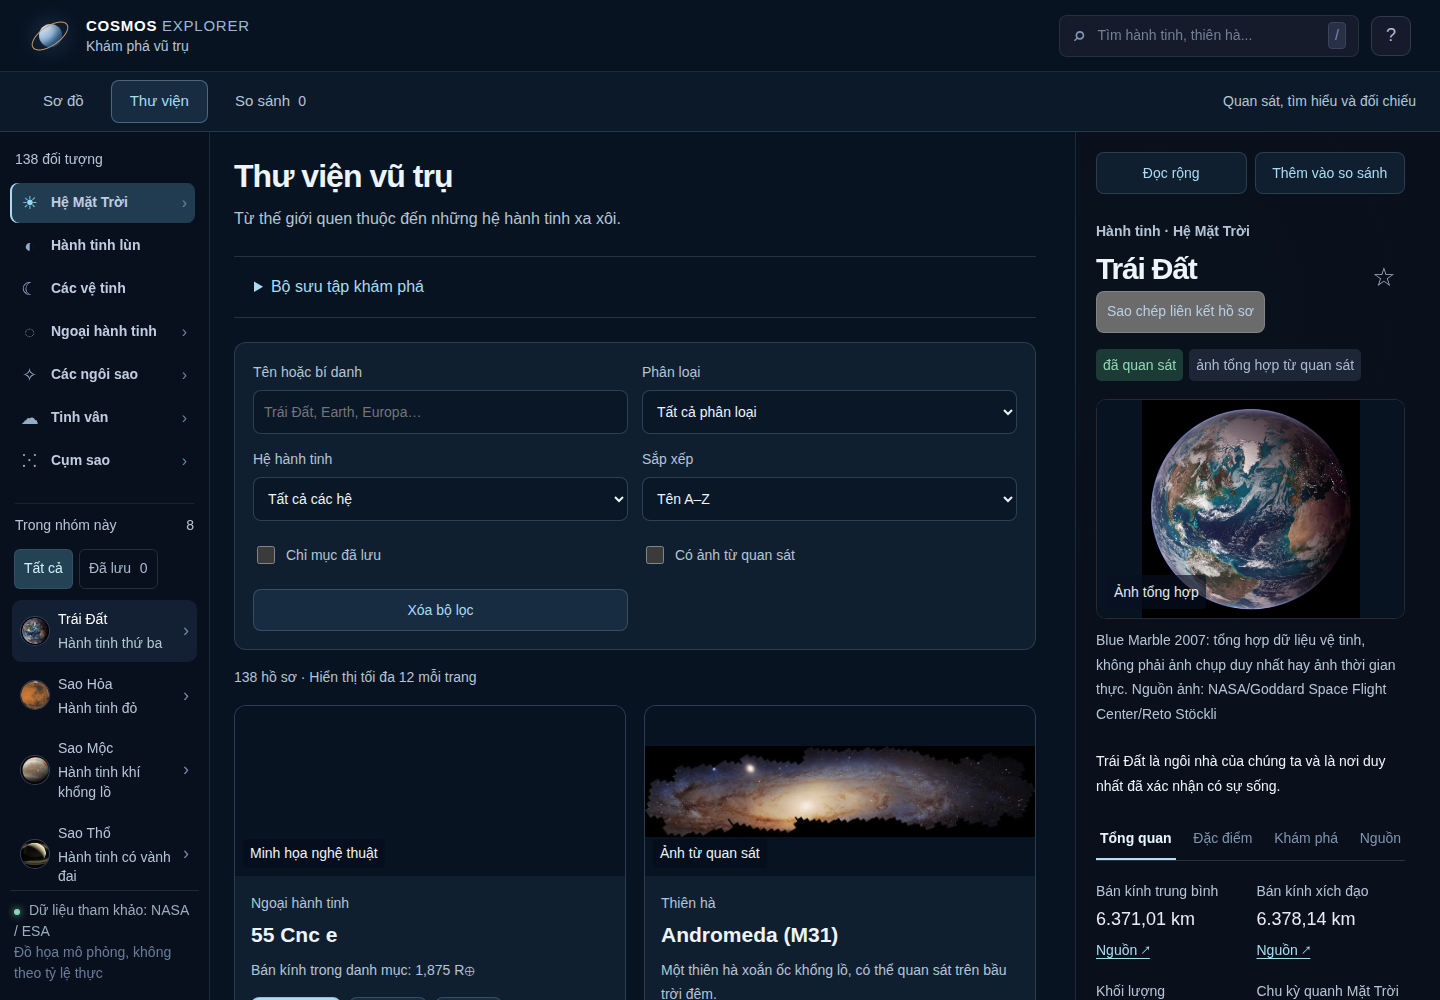
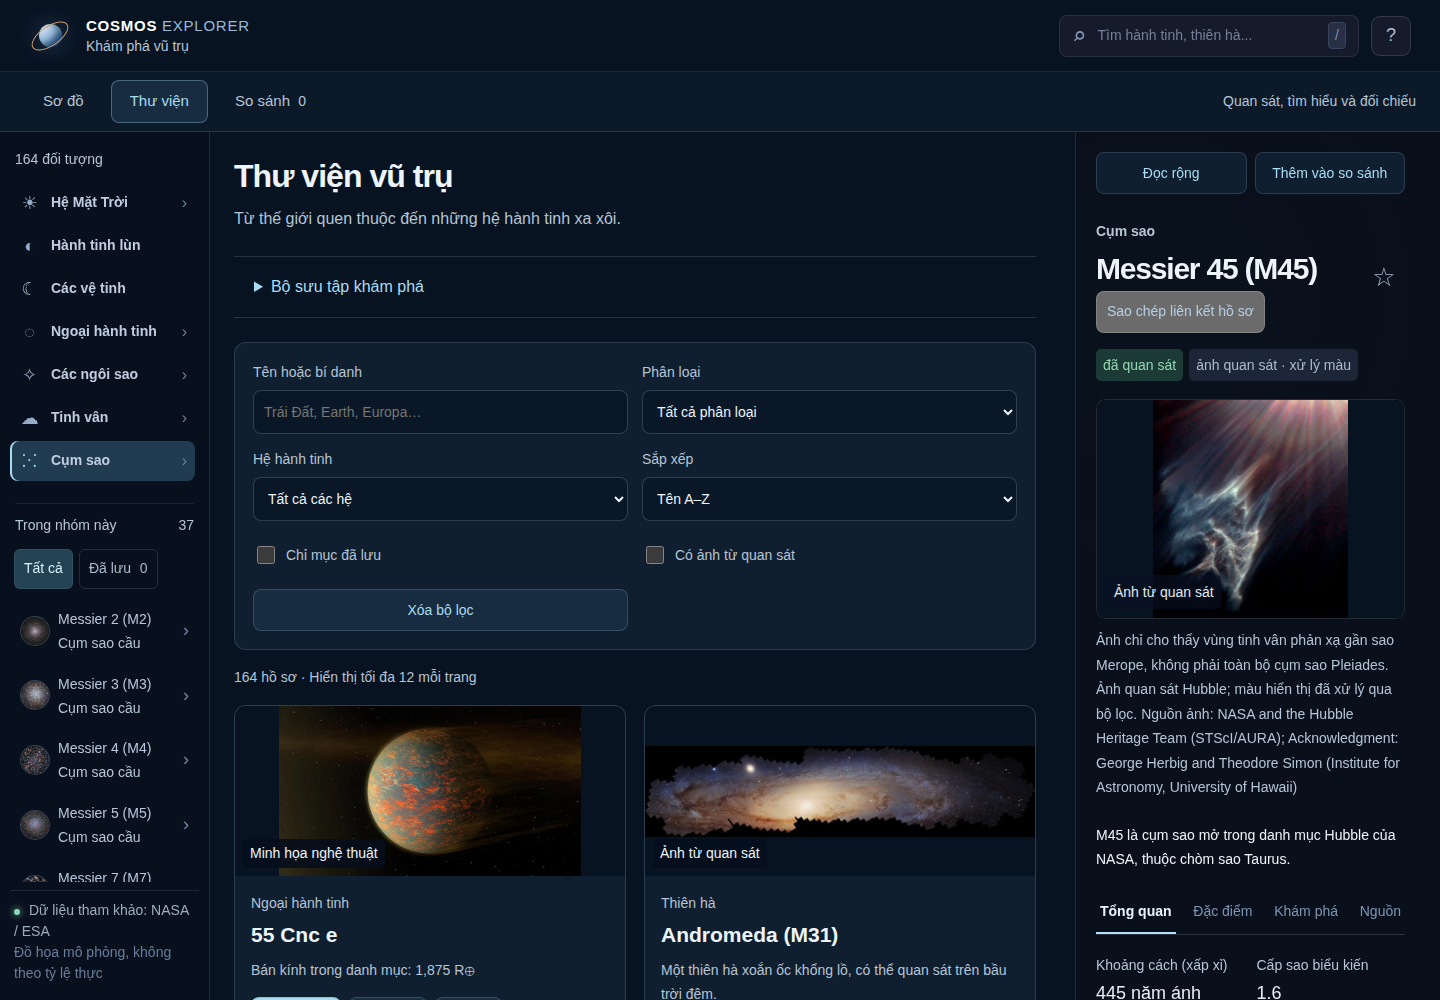
docs(product): cập nhật danh mục, CSDL và ảnh sản phẩm (#13)
Ghi số đo DB164/152, bằng chứng28 unit14 smoke và toàn bộ Chrome đạt, phạm vi nguồn/ảnh, bảo toàn hồ sơ cũ. README dùng3ảnh thật hiện hành. Trạng thái quota theo yêu cầu50%used; cổng chuyên môn/người thật/deploy vẫn giữ.

diff --git a/docs/DATA_POLICY.md b/docs/DATA_POLICY.md
@@ -1,6 +1,23 @@
 # Dữ liệu và tư liệu khoa học
 
-Ngày biên tập: 2026-10-21. `cosmos-explorer/catalog.js` và `catalog-expanded.js` là dữ liệu chạy của ứng dụng. `catalog-expanded.js` được dựng từ snapshot trong `cosmos-explorer/data/`. Bản 2.2 có 138 hồ sơ và 126 hình ảnh cục bộ (90 tư liệu từ quan sát/tổng hợp/tái dựng, 36 minh họa nghệ thuật). Trường `source` áp dụng cho hồ sơ và thông số; `references` và `papers` bổ sung nguồn quan sát/nghiên cứu; `reviewed` ghi ngày biên tập. Đây là bản ghi tuyển chọn, không tự cập nhật.
+Cập nhật đợt Messier: 2026-11-05. Catalog hiện có **164 hồ sơ và 152 ảnh cục bộ** (116 tư liệu quan sát/tổng hợp/tái dựng, 36 minh họa). `catalog-expanded.js` được dựng từ snapshot trong `cosmos-explorer/data/`; `catalog.js` giữ dữ liệu nền. Nguồn từng thông số, ngày biên tập và ghi công ảnh nằm trong hồ sơ. Đây là dữ liệu tuyển chọn, không tự cập nhật. Các hồ sơ cũ giữ ngày đối chiếu cũ; ngày của đợt mới không được áp cho toàn catalog.
+
+## Mở rộng Messier — 2026-11-05
+
+Thêm đúng 26 mục từ [NASA Hubble Messier Catalog](https://science.nasa.gov/mission/hubble/science/explore-the-night-sky/hubble-messier-catalog/): M22, M24, M28, M30, M35, M43, M44, M45, M46, M48, M53, M54, M55, M56, M62, M67, M68, M69, M70, M71, M72, M75, M79, M80, M92 và M107. Snapshot Messier hiện có 85 bản ghi; toàn bộ 138 hồ sơ runtime cũ được bảo toàn nguyên nội dung.
+
+Bốn trường khoảng cách, cấp sao biểu kiến, chòm sao và phân loại được đọc trực tiếp từ HTML NASA, đối chiếu với bản trích độc lập và lưu cùng URL/hash/ngày trong provenance. Khoảng cách giữ dạng văn bản với đơn vị năm ánh sáng và nhãn xấp xỉ; không tự phân tích thành đại lượng để sắp xếp hoặc suy thông số mới. Năm đại lượng chưa chuẩn hóa của mỗi mục mới vẫn là null.
+
+- [M24](https://science.nasa.gov/mission/hubble/science/explore-the-night-sky/hubble-messier-catalog/messier-24/) là trường sao nhìn qua khoảng trống giữa các đám bụi, không phải cụm sao; ảnh chỉ bao phủ một phần nhỏ.
+- [M45](https://science.nasa.gov/mission/hubble/science/explore-the-night-sky/hubble-messier-catalog/messier-45/) là cụm mở Pleiades; ảnh được chọn chỉ chụp vùng tinh vân phản xạ gần Merope.
+- [M46](https://science.nasa.gov/mission/hubble/science/explore-the-night-sky/hubble-messier-catalog/messier-46/) là cụm mở phía sau tinh vân NGC 2438; không dùng khoảng cách của cụm cho tinh vân tiền cảnh.
+- M44 chỉ được chụp ở rìa cụm, có thiên hà nền; M54 thuộc thiên hà lùn Sagittarius. Chú thích các mục ghi rõ giới hạn vùng ảnh.
+
+26 ảnh mới lấy từ figure quan sát đầu tiên trên trang NASA, giữ URL gốc/tải và credit đầy đủ; chỉ đổi kích thước tối đa 800×800 và định dạng WebP chất lượng 84. Chú thích hiển thị là tiếng Việt tự biên tập; không ghép nguyên văn caption NASA vào giao diện. Manifest ghi SHA-256, nguồn, loại và phép chuyển đổi. Điều kiện sử dụng của từng nguồn tiếp tục áp dụng; review tác nhân không thay kiểm định khoa học/quyền sử dụng bởi người có chuyên môn.
+
+`expand_messier.py --source-dir <cache-da-doi-chieu>` nhận thư mục có `independent-sources.json` và `independent/<so>.html`, kiểm lại hash/trường trước khi nhập 26 ID tường minh. Cache HTML không nằm trong gói sản phẩm; muốn tái biên tập cần cung cấp lại bản nguồn đã đọc. `retrievedUTC` trong provenance đợt này là thời điểm xác nhận/đọc cache, được ghi rõ trong `retrievalNote`, không phải thời điểm tải chính xác từ máy chủ. Công cụ không cập nhật 59 bản ghi Messier cũ; nguồn của ID mới đã tồn tại mà thay đổi hash/trường sẽ bị từ chối để chờ biên tập. Chạy lại cùng đầu vào, kể cả khác ngày, không đổi bytes dữ liệu/ảnh. Sau thay đổi có duyệt, chạy `build_catalog.py`, validator và dựng lại SQLite từ runtime. `refresh_catalog.py` là công cụ tuyển chọn 59 mục ban đầu; không chạy ghi đè snapshot mở rộng.
+
+Các phần 2.1/2.2 bên dưới ghi lại lịch sử, gồm mốc 138 hồ sơ/126 ảnh trước đợt này.
 
 ## Nguồn
 - Hệ Mặt Trời: NASA Science, trang Facts theo từng đối tượng. Số liệu làm tròn; không dùng số vệ tinh hay thông số chưa kiểm chứng mới.

diff --git a/docs/QA.md b/docs/QA.md
@@ -102,3 +102,11 @@ HTTPS dùng chứng chỉ self-signed trên loopback, không xác minh TLS/hosti
 Chrome kiểm tra chặn inline script thật qua sự kiện CSP, query/hash độc hại không thực thi, không request ra ngoài trong luồng khởi động/tìm kiếm, link nguồn vẫn còn. Xóa yêu thích có xác nhận: cancel giữ nguyên; confirm chỉ xóa cosmos_favorites, giữ key khác và hồ sơ/so sánh; removeItem bị SecurityError xóa trong phiên và báo giới hạn. Nút xóa được đo >=14px, >=42px tại 390px. Ba synthetic persona dùng context riêng; **0 người dùng thật**.
 
 README đã được chụp bằng Chrome thật offline, kiểm ảnh/link cục bộ và không chứa hướng dẫn vận hành tác nhân. Các ảnh trình bày sản phẩm ở docs/screenshots. Log chi tiết cục bộ: .automation/product-wave/final-gates.log; kiểm tra remote và review theo [PR #11](https://github.com/nvndy27/Cosmos-Explorer-Demo/pull/11). Frontend chưa dùng API; API loopback, header triển khai mẫu và test giả lập không thay thế nghiệm thu backend/hosting public, người thật, khoa học hoặc cross-browser.
+
+## Mở rộng 26 Messier và ngưỡng quota mới — 2026-11-05
+
+`check_all.py --browser` đạt trên code `dbe55467ed6387a71abd7a51c8933626de723762`: **28 unittest, 14 nhóm smoke**, 164 hồ sơ/152 hash ảnh. Nội dung runtime của cả 138 hồ sơ cũ, 59 bản ghi/provenance Messier cũ và 126 mục manifest cũ được đối chiếu giữ nguyên. Đã đọc/đối chiếu bốn trường, ảnh đầu và credit từ 26 HTML NASA; dữ liệu chưa chuẩn hóa vẫn null. Đây là kiểm tra nguồn/provenance, không phải kiểm định thiên văn độc lập.
+
+Chrome thật kiểm tra cả 164 hồ sơ và giải mã 152 ảnh; bộ `check_messier_expansion.cjs` kiểm riêng 26 hồ sơ/ảnh/credit/nguồn, tìm M22/M107, metadata cụm sao, bộ lọc quan sát và file:// offline ở 390/820/1440. Toàn bộ cổng HTTP/HTTPS loopback, storage lỗi, chia sẻ, CSP, người dùng giả lập và xóa dữ liệu cũng đạt. Ảnh README được chụp lại và xem trực tiếp; không sửa báo cáo lịch sử. SQLite schema 2 có 164 đối tượng và 152 ảnh; integrity/FK đạt, API cục bộ trả total164 và các hồ sơ mới.
+
+Theo yêu cầu mới nhất, dừng khi đã dùng 50% hạn mức 5 giờ (còn ≤50%); kiểm thử quota gồm 12 ca bao gồm ngưỡng đã dùng 49%/50% và không coi thời gian reset đã qua là bằng chứng refill. Bằng chứng: [messier-expansion-2026-11-05.json](qa/messier-expansion-2026-11-05.json). Hai AGY phải review cùng SHA cuối và GitHub `product` phải đạt trước merge; kết quả được ghi tại PR. Chưa deploy, chưa có thử người thật hoặc kiểm định chuyên môn.

diff --git a/README.md b/README.md
@@ -10,7 +10,7 @@ Cosmos Explorer là ứng dụng học thiên văn cho học sinh, giáo viên v
 
 | Trải nghiệm | Điều bạn nhận được |
 |---|---|
-| Khám phá | 138 hồ sơ trong 11 nhóm, từ hành tinh và vệ tinh đến tinh vân, thiên hà, hố đen |
+| Khám phá | 164 hồ sơ trong 11 nhóm, từ hành tinh và vệ tinh đến tinh vân, thiên hà, hố đen |
 | Tìm và lọc | Tìm tiếng Việt không dấu hoặc bí danh; lọc loại, hệ, đã lưu và ảnh quan sát |
 | Đọc có nguồn | Hồ sơ Tổng quan, Đặc điểm, Khám phá, Nguồn; thông số có đơn vị và tham chiếu |
 | So sánh | Chọn 2–4 hồ sơ; chỉ đối chiếu các đại lượng tương thích về định nghĩa và đơn vị |
@@ -33,7 +33,11 @@ Giáo viên có thể dùng bộ sưu tập Hành tinh đá, Hành tinh khổng 
 
 ## Dữ liệu và độ tin cậy
 
-Ứng dụng có 138 hồ sơ và 126 ảnh cục bộ có nguồn, ghi công và checksum. Nội dung được biên tập từ NASA, ESA, JPL, ESO/EHT và các nguồn nghiên cứu được liên kết trong hồ sơ. Đây là dữ liệu tuyển chọn tại thời điểm biên tập, không phải dữ liệu thiên văn thời gian thực.
+Ứng dụng có 164 hồ sơ và 152 ảnh cục bộ có nguồn, ghi công và checksum. Nội dung được biên tập từ NASA, ESA, JPL, ESO/EHT và các nguồn nghiên cứu được liên kết trong hồ sơ. Đây là dữ liệu tuyển chọn tại thời điểm biên tập, không phải dữ liệu thiên văn thời gian thực.
+
+### Thêm 26 hồ sơ Messier
+
+Đợt mở rộng bổ sung 26 mục NASA Messier: M22, M24, M28, M30, M35, M43, M44, M45, M46, M48, M53, M54, M55, M56, M62, M67, M68, M69, M70, M71, M72, M75, M79, M80, M92 và M107. Riêng M24 được mô tả là trường sao nhìn qua khoảng trống giữa các đám mây bụi tối, không gọi là cụm sao; ảnh M45 chỉ thể hiện tinh vân phản xạ gần Merope; NGC 2438 trong ảnh M46 là tinh vân tiền cảnh. Xem [chính sách dữ liệu](docs/DATA_POLICY.md) để biết nguồn và cách biên tập.
 
 Sơ đồ Canvas là minh họa khám phá, kích thước và khoảng cách không theo tỷ lệ thực. Ảnh quan sát, tái dựng từ dữ liệu và minh họa nghệ thuật có nhãn riêng. Giá trị thiếu không được thay bằng 0; bán kính trung bình và bán kính quá cảnh không bị gộp để tạo biểu đồ.
 

diff --git a/docs/STATUS.md b/docs/STATUS.md
@@ -1,12 +1,16 @@
 # Trạng thái sản phẩm — 2026-11-05
 
+## Mở rộng Messier
+
+Đã nhập 26 hồ sơ NASA, dựng catalog 164 hồ sơ/152 ảnh và SQLite schema 2. Toàn bộ cổng tự động đạt: 28 unit tests, 14 nhóm smoke, validator nguồn/ảnh/hash và Chrome 390/820/1440. Nội dung 138 hồ sơ cũ giữ nguyên; CSDL integrity/FK đạt. Hai review cùng SHA và GitHub CI là cổng trước tích hợp; xem [bằng chứng](qa/messier-expansion-2026-11-05.json). Không triển khai web công khai.
+
 Cosmos Explorer 2.2 đang ở giai đoạn chuẩn bị beta: nền vận hành P0 đã đạt; phần kỹ thuật tự động của P1 và tính năng chia sẻ/hướng dẫn trong P2 đã có bằng chứng. Chưa đạt toàn bộ P1/P2 vì QA thủ công và thử người dùng còn thiếu. P3 phát hành public chưa bắt đầu.
 
 ## Đã có bằng chứng
-- 138 hồ sơ, 126 ảnh có manifest/hash, web tĩnh và file:// ngoại tuyến.
+- 164 hồ sơ, 152 ảnh có manifest/hash, web tĩnh và file:// ngoại tuyến.
 - Tìm không dấu, thư viện, so sánh 2–4 hồ sơ, lưu cục bộ, copy link và cảnh báo đường dẫn file cục bộ.
 - Commit ứng dụng `010ec39fe9e00ff6c997d4c50424070370042cc4`: 18 unit tests, 14 smoke, catalog validator, Chrome 390/820/1440, HTTP/HTTPS loopback, storage fault injection và share QA đạt; hai AGY duyệt cùng SHA. [Bằng chứng](qa/ux-share-2026-11-05.json).
-- 3 Codex (gồm điều phối) + 2 AGY đã làm trên các terminal sẵn có; automation ngày 09:00, giữ 10% quota và theo dõi reset trên máy. Máy/phiên phải hoạt động để timer chạy.
+- 3 Codex (gồm điều phối) + 2 AGY đã làm trên các terminal sẵn có; automation ngày 09:00, dừng khi đã dùng 50% quota cửa sổ 5 giờ (giữ lại 50%) và theo dõi reset trên máy. Máy/phiên phải hoạt động để timer chạy.
 - Mã nguồn đã lên GitHub public; chưa có URL website công khai.
 
 ## Cổng còn mở

diff --git a/docs/DATABASE.md b/docs/DATABASE.md
@@ -20,16 +20,18 @@ Không sửa số liệu trực tiếp trong DB để tạo nguồn dữ liệu 
 
 ## Schema và quan hệ
 
-| Bảng | Vai trò | Số dòng bản hiện tại |
+| Bảng | Vai trò | Số dòng sau mở rộng Messier |
 |---|---|---:|
-| objects | ID, tên, loại, hệ và bản ghi JSON đầy đủ | 138 |
-| object_aliases | Bí danh có thứ tự, FK về objects | 158 |
-| sources | URL nguồn không trùng | 334 |
-| object_sources | Liên kết hồ sơ–nguồn, vai trò, nhãn, thứ tự | 535 |
-| measurements | Khóa đại lượng, số/null, đơn vị, định nghĩa, nguồn và giới hạn | 712 |
-| images | Đường dẫn ảnh, nguồn, tác giả, loại tư liệu, ngày lấy, SHA-256 | 126 |
-| object_images | Liên kết hồ sơ với tư liệu ảnh | 126 |
+| objects | ID, tên, loại, hệ và bản ghi JSON đầy đủ | 164 |
+| object_aliases | Bí danh có thứ tự, FK về objects | 184 |
+| sources | URL nguồn không trùng | 386 |
+| object_sources | Liên kết hồ sơ–nguồn, vai trò, nhãn, thứ tự | 587 |
+| measurements | Khóa đại lượng, số/null, đơn vị, định nghĩa, nguồn và giới hạn | 842 |
+| images | Đường dẫn ảnh, nguồn, tác giả, loại tư liệu, ngày lấy, SHA-256 | 152 |
+| object_images | Liên kết hồ sơ với tư liệu ảnh | 152 |
 | schema_migrations | Lịch sử schema 001–002, cùng PRAGMA user_version | 2 |
+
+Các số trên được đo từ DB dựng bằng `scripts/build_database.py` ngày 2026-11-05, sau khi runtime có 164 hồ sơ. `PRAGMA integrity_check` trả `ok`; `foreign_key_check` không có vi phạm. Đợt này thêm dữ liệu, không đổi schema. Dòng đại lượng bao gồm cả null có chủ đích; 842 không phải số phép đo đã biết. Báo cáo nền sản phẩm trước đợt Messier vẫn giữ các số lịch sử 138/126.
 
 ```mermaid
 erDiagram

diff --git a/docs/PRODUCT.md b/docs/PRODUCT.md
@@ -12,7 +12,7 @@ Ba hành trình chính:
 
 ## Lời hứa
 - Nội dung tiếng Việt dễ hiểu, có giới hạn quan sát và ngày đối chiếu.
-- 138 ID hiện tại cùng yêu thích/liên kết cũ được bảo toàn.
+- 164 hồ sơ hiện hành; toàn bộ 138 ID và nội dung trước mở rộng Messier cùng yêu thích/liên kết cũ được bảo toàn.
 - Không buộc đăng nhập, không API key trên trình duyệt; không thu dữ liệu người dùng theo mặc định.
 - Bản file:// tiếp tục hoạt động với nội dung/ảnh dự phòng; bản HTTPS phải được kiểm tra riêng.
 - Sơ đồ là minh họa có nhãn. Dữ liệu đo, tái dựng và minh họa được phân biệt.
